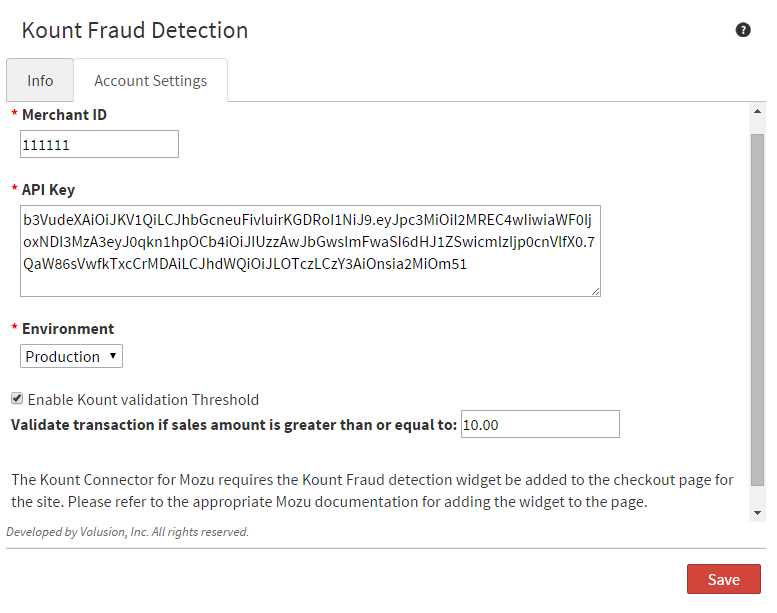
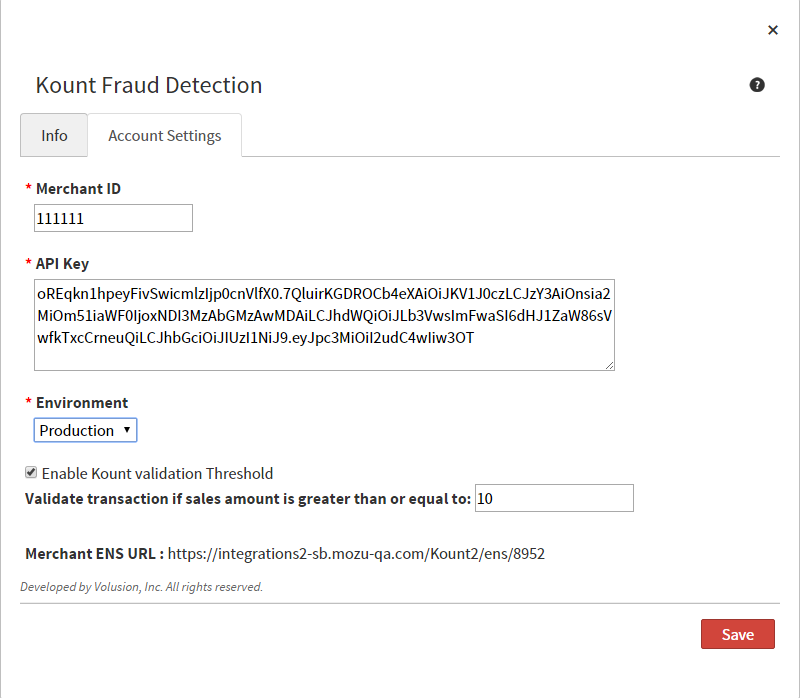
Updates for 2.0

diff --git a/Preview/Kount/Mozu_Kount_App.htm b/Preview/Kount/Mozu_Kount_App.htm
@@ -1,7 +1,7 @@
 <html>
     <head><title>Kount by Mozu</title>
         <meta name="author" content="Mozu" />
-        <meta name="description" content="User content for Kount by Mozu" />
+        <meta name="description" content="User content for the Kount Application by Mozu" />
         <meta name="keywords" content="Kount,Mozu" />
 		<link rel="shortcut icon" href="http://www.mozu.com/favicon.ico" />
 		
@@ -103,8 +103,8 @@
                         </button> <a href="#"><img src="logo-m-red-medium.png" style="margin-top:3px;"/></a></div>
                     <div class="navbar-collapse collapse">
                         <ul class="nav navbar-nav navbar-right">
-						<li><a href="versionhistory.html"><span>Version History</span></a></li>
-							<li><a href="//developer.mozu.com/learn/mozu-concepts"><span>Mozu Concepts</span></a></li>
+							<li><a href="versionhistory.html"><span>Version History</span></a></li>
+							<li><a href="http://developer.mozu.com/content/learn/Introduction.htm"><span>Mozu Dev Center</span></a></li>
                         </ul>
                     </div>
                 </div>
@@ -120,13 +120,13 @@
 					<ul class="nav nav-stacked" >
 						<div class="side-heading">Table of Contents</div>
 							<li><a href="#intro">Welcome to Kount and Mozu</a></li>
-							<li><a href="#install">Install the App</a>
-							</li>
-							<li><a href="#configapp">Configure the App</a>
-								
-							</li>
+							<li><a href="#install">Install the App</a></li>
+							<li><a href="#configapp">Configure the App</a></li>
+							<li><a href="#mergetheme">Add the Widget</a></li>
 							<li><a href="#enable">Enable the App</a></li>
 							<li><a href="#use">Use the App</a></li>
+							<li><a href="#applogic">App Logic</a></li>
+							<li><a href="#related">Related Links</a></li>
 					</ul>
 				</nav>
 			</div>
@@ -137,7 +137,7 @@
 					<h2>Welcome to Kount and Mozu</h2>
 					<p><a href="http://www.kount.com" target="_blank">Kount</a> provides online services to determine the legitimacy and potential risk of shopper orders submitted through your storefront, specifically at the order level. The service reviews every submitted order for pertinent data including the shopper’s identity, the initial order submitted, the IP and origin location, and the device and browser to calculate a fraud score. Kount compares and assesses the risk of the order’s data and score per the rules you configure to identify legitimate and potentially fraudulent orders. </p>
 					<p><a href="http://www.mozu.com" target="_blank">Mozu</a> offers an app to leverage Kount’s rules and fraud detection to review your shoppers’ orders submitted through your storefront. All orders are determined as accepted, rejected, and failed according to the rules you configure and Kount’s services. </p>
-					<p>Application Features:</p>
+					<h3>Application Features:</h3>
 					<ul>
                             <li>Automatically sends information about submitted orders to Kount, including the shopper's browser type, IP address, device type, billing information, etc.</li>
 							<li>Validates shopper purchases against your Kount rules to determine fraud scores and legitimacy of the purchaser. </li>
@@ -145,24 +145,18 @@
 							<li>Provide orders to review and manage through Mozu with Kount’s final determination.</li>
 							<li>Avoids excessive overhead for low-value orders by allowing you to set a monetary threshold below which orders are NOT screened for fraud.</li>
                         </ul>
-						<p>When a shopper purchases their order, the following occurs between Mozu and the Kount app:</p>
-						<ul>
-							<li>Mozu sends collected data to Kount including the browser used, desktop or device used to enter the order, order origin address, the IP of the purchasing system, and additional data as needed. </li>
-							<li>Kount verifies the legitimacy of the order against set rules on your Kount account. Kount determines the IP location, validity of the payment method, customer data, browser data, and further items.</li>
-							<li>Kount calculates a fraud score for the order and returns the order's status as accepted, failed, or rejected. If rejected, the order data did not clearly calculate as accepted or failed. You can review and actively accept or reject these orders through Mozu.</li>
-							<li>Mozu notifies you when purchases have returned as failed or rejected. These orders do require your review and final actions to accept the payment or cancel the order due to potential fraudulent activity through the Orders section.</li>
-						</ul>
+
 				</section>
 				<section id="install">
-					<h2 >Install the Kount Application by Mozu on Your Tenant</h2>
+					<h2>Install the Kount Application by Mozu on Your Tenant</h2>
                         <p>After purchasing the Kount Application by Mozu, call your sales or professional services representative and request installation on your tenant. Mozu staff will install the app to your tenant, making it available for further configuration and usage in your storefront.</p>
 				</section>
 				
 				<section id="configapp">				
-                    <h2 >Configure the Application</h2>
+                    <h2>Configure the Application</h2>
 						<p>To integrate your Kount services with Mozu, review the configuration requirements to ensure you have everything you need to be successful before you begin, and then complete the steps in this section.</p>
-						<div id="configreq">  					   
-					<h3 >Configuration Requirements</h3></div>
+				   
+					<h3 id="configreq">Configuration Requirements</h3>
                         <ul>
                             <li>An active <a href="http://www.kount.com/" target="_blank">Kount</a> account.</li>
 							<li>Your Kount <strong>Merchant ID</strong>. Kount provides this ID when you set up your Kount account.</li>
@@ -170,28 +164,47 @@
 							<li>You must have access to modify and update your Mozu theme.</li>
 							<li>The Kount Application by Mozu must be installed on your tenant.</li>
                         </ul>
-						<div id="configacct">
-						<h3 >Configure Kount Account Settings</h3></div>
+
+						<h3 id="configacct">Configure Kount Account Settings</h3>
                         <ol>
                             <li>On the Mozu Admin top bar, select <strong>Settings</strong> &gt; <strong>Applications</strong>.</li>
                             <li>Click <strong>Kount</strong>.</li>
                             <li>Click the <strong>Configuration</strong> link to open configuration settings.</li>
                             <li>Go to the <strong>Account Settings</strong> tab:<br><img src="kount-acctsettings.png" class="img-mozu"/></li>
 							<li>Enter your Kount <strong>Merchant ID</strong>. Kount provides this ID when you set up your Kount account.</li>
-							<li>Enter your Kount <strong>API Key</strong>. To find or generate this key in Kount, navigate to <strong>Admin</strong> > <strong>API Keys</strong>: <img src="kount-admin-apikeys.png" class="img-mozu"> The key you use must have both <strong>RIS</strong> and <strong>API</strong> permissions. You can configure key permissions when you create the key: <img src="kount-create-apikey.png" class="img-mozu"></li> 
+							<li>Enter your Kount <strong>API Key</strong>. To find or generate this key in Kount, navigate to <strong>Admin</strong> &gt; <strong>API Keys</strong>: <img src="kount-admin-apikeys.png" class="img-mozu"> The key you use must have both <strong>RIS</strong> and <strong>API</strong> permissions. You can configure key permissions when you create the key: <img src="kount-create-apikey.png" class="img-mozu"></li> 
 							<li>Select the Kount <strong>Environment</strong> you want to work in.</li>
 							<li>(Optional) Selct <strong>Enable Kount validation Threshold</strong> to set a price threshold below which orders are not screened by Kount. For example, you may want Kount to only screen orders over $10 for fraud.</li>
 							<li>Click <strong>Save</strong>. This step connects Mozu to your Kount account.</li>
-							<li>Copy the URL provided on the Account Settings tab, for example: <i>https://sample.site.mozu.com/KountExt</i>. This URL directs the Kount widget to send order data to the Kount Web Console (where data collection occurs). Save this link for the next step of configuration.</li>
-							
+													
                         </ol>
-                        
-						
-						                        
+                    
+				</section>
+
+				<section id="mergetheme">
+					<h2>Add the Kount Widget to Your Theme</h2>
+					<p>The Kount Application includes a theme widget that is available in GitHub (<a href="https://github.com/Mozu/Integration-KountWidget">Mozu/Integration-KountWidget</a>). You can add this widget to the checkout page of your Mozu site(s) to capture customers’ browser information for inclusion in Kount’s fraud screening.</p>
+					<h3 id="updatetheme">Update Your Theme</h3>
+					<ol>
+						<li>Clone or download this repository.</li>
+						<li>Add or merge the files listed above.</li>
+						<li>Run Grunt to build the theme.</li>
+						<li>Upload the resulting ZIP file to Mozu Dev Center.</li>
+						<li>Install the updated theme to the sandbox you’re working in.</li>
+						<li>In Mozu Admin, go to <strong>SiteBuilder</strong> &gt; <strong>Themes</strong>, right-click the new theme, and click <strong>Apply</strong>.</li>
+					</ol>
+					
+					<h3 id="addwidget">Add the Widget to Your Checkout Page</h3>
+					<ol>
+						<li>In Mozu Admin, go to <strong>SiteBuilder</strong> &gt; <strong>Editor</strong>.</li>
+						<li>In the Site tree, navigate to <strong>Templates</strong> &gt; <strong>Checkout</strong>.</li>
+						<li>Click the <strong>Widgets</strong> button at the top of the editor.</li>
+						<li>Drag the <strong>Kount Fraud Detection</strong> widget to any dropzone on the checkout page. The widget is not visible to customers, so placement on the page is not important.</li>
+					</ol>
 				</section>
 				
 				<section id="enable">
-                    <h2 >Enable the Kount Application by Mozu</h2>
+                    <h2>Enable the Kount Application by Mozu</h2>
 					<p>After configuration, enable the Kount Application in Mozu to apply its functionality to your tenant:</p>
                         <ol>
                             <li>On the Mozu Admin top bar, select <strong>Settings</strong> &gt; <strong>Applications</strong>.</li>
@@ -202,23 +215,48 @@
 				<section id="use">
 				<h2>Use the App</h2>
 				<ul>
-				<li><a href="#notify">Enable Event Notification System</a></li>
+				<li><a href="#notify">Enable the Kount Event Notification System</a></li>
 				</ul>
-                    <h2 id="notify">Enable Event Notification System </h2>
-					<p>With the systems connected, you need to enable the Event Notification System (ENS) in your Kount account to synchronize data and enable actions with Mozu. On shopper purchases, Mozu processes the order and sends data to Kount, which calculates the fraud score and provides data back to Mozu.</p>
-					<p>While we highly recommend performing all order review and reporting directly through Mozu, you can use Kount services and sync any actions back into Mozu. Kount provides fraud score reviewing, management, and in-depth reports for purchases made through Mozu storefronts. You can review and approve the order within Kount, add history content, and update addresses. ENS syncs this data back into Mozu within a minute of entered changes.</p>
-					<p>Specific data changed within Kount syncs to Mozu including edits to the content, history, shipping and billing addresses, and state changes such as from review (R) to approve (A). If you change the state of an order in Kount, additional processes enact in Mozu when synced as if you had made that change directly in Mozu. </p>
+    <h3 id="notify">(Optional) Enable the Kount Event Notification System</h3>
+					<p>Kount provides their Event Notification System (ENS) to allow merchants to automate certain interactions with Kount. The Kount Application leverages this system to get information about status changes in Kount.</p> 
+					<p class="panel-note"><strong>Note:</strong> If you simply want to send orders to Kount and receive fraud detection results, you do not need to complete this section. However, if you want to use other Kount services and have your Mozu orders automatically update to reflect changes applied in Kount, you must enable ENS.</p> 
+					<p>For example, you can review and approve an order within Kount, add history content, and update addresses. ENS syncs this data back into Mozu within a minute of entered changes. ENS can sync the following changes back to Mozu from Kount: Edits to order content, history, shipping and billing addresses, and state changes such as from review (R) to approve (A).</p>
                         <ol>
-                            <li>In your Kount account site, select Fraud Control tab and select <strong>Websites</strong>.</br>
+                        	<li>Open the Kount Application configuration settings dialog, go to the <strong>Account Settings</strong> tab and copy your <strong>Merchant ENS URL</strong>.</li>
+                            <li>Log in to your Kount account.</li>
+                            <li>In your Kount dashboard, go to <strong>Fraud Control</strong> &gt; <strong>Websites</strong>.</br>
 							<img src="kount-admin1.png" class="img-mozu"/></li>
-                            <li>You will have a “DEFAULT” website available in the list. You can edit this website using the gear icon. Select <strong>Edit</strong>. </br>
-							<img src="kount-admin2.png" class="img-mozu"/></li></li>
-                            <li>Select Website Enabled and ENS Enabled as <strong>Yes</strong>.</li>
-							<li>For the Merchant ENS URL, enter <font face="Courier New">https://integrations2-{su}.mozu.com/Kount2/ens/{tenantId}</font>, where <font face="Courier New">{su}</font> is the scale unit (sb, tp1, tp2, tp3, tp4, etc.). A Mozu support representative can help you identify the scale unit and the correct URL to use for your sandbox and production needs. An example of a Merchant ENS URL is <font face="Courier New">https://integrations2-tp1.mozu.com/Kount2/ens/12345</font>.</li>
+                            <li>You will have a “DEFAULT” website available in the list. Click the gear icon and select <strong>Edit</strong> to edit the site settings.
+							</li>
+                            <li>Set <strong>Website Enabled</strong> and <strong>ENS Enabled</strong> to <strong>Yes</strong>.<img src="kount-website-editor.png" class="img-mozu"/></li>
+							<li>For the <strong>Merchant ENS URL</strong>, paste the URL you copied from the Kount Application.</li>
 							<li>Click <strong>Update Website</strong>.</li>
-                        </ol>
+                        </ol>	
 				</section>
-				
+				<section id="applogic">
+					<h2>Application Logic</h2>
+					<p>When a shopper purchases their order, the following occurs between Mozu and the Kount app:</p>
+						<ul>
+							<li>Mozu sends collected data to Kount including the browser used, desktop or device used to enter the order, order origin address, the IP of the purchasing system, and additional data as needed. </li>
+							<li>Kount verifies the legitimacy of the order against set rules on your Kount account. Kount determines the IP location, validity of the payment method, customer data, browser data, and further items.</li>
+							<li>Kount calculates a fraud score for the order and returns the order's status as accepted, failed, or rejected. If rejected, the order data did not clearly calculate as accepted or failed. You can review and actively accept or reject these orders through Mozu.</li>
+							<li>Mozu notifies you when purchases have returned as failed or rejected. These orders do require your review and final actions to accept the payment or cancel the order due to potential fraudulent activity through the Orders section.</li>
+						</ul>
+				</section>
+
+				<section id="related">
+					<h2>Related Links</h2>
+
+					<h3>GitHub</h3>
+					<ul>
+						<li><a href="https://github.com/Mozu/Integration-KountWidget">Mozu/Integration-KountWidget</a></li>
+					</ul>
+
+					<h3>Mozu Documentation</h3>
+					<ul>
+						<li><a href="http://developer.mozu.com/content/learn/themedev/quickstart/create-your-first-theme.htm">Mozu Theme Development Quickstart</a></li>
+					</ul>
+				</section>
 						</div>
                     </div>
                 </div>

diff --git a/Preview/Kount/versionhistory.html b/Preview/Kount/versionhistory.html
@@ -2,7 +2,7 @@
 <html>
     <head><title>Version History</title>
         <meta name="author" content="Mozu" />
-        <meta name="description" content="App version history for Mozu app." />
+        <meta name="description" content="App version history for the Kount Application by Mozu." />
         <meta name="keywords" content="Mozu,App" />
 		<link rel="shortcut icon" href="http://www.mozu.com/favicon.ico" />
 		
@@ -103,8 +103,8 @@
                         </button> <a href="#"><img src="logo-m-red-medium.png" style="margin-top:3px;"/></a></div>
                     <div class="navbar-collapse collapse">
                         <ul class="nav navbar-nav navbar-right">
-						<li><a href="Mozu_Kount_App.htm"><span>App Documentation</span></a></li>
-							<li><a href="//developer.mozu.com/learn/mozu-concepts"><span>Mozu Concepts</span></a></li>
+							<li><a href="Mozu_Kount_App.htm"><span>App Documentation</span></a></li>
+							<li><a href="http://developer.mozu.com/content/learn/Introduction.htm"><span>Mozu Dev Center</span></a></li>
                         </ul>
                     </div>
                 </div>
@@ -119,6 +119,7 @@
 				<nav class="bs-docs-sidebar" >
 					<ul class="nav nav-stacked" >
 						<div class="side-heading">Table of Contents</div>
+							<li><a href="#Nov2015">November 2015</a></li>
 							<li><a href="#Jun2015">June 2015</a></li>
 							<li><a href="#Jan2015">January 2015</a></li>
 					</ul>
@@ -127,6 +128,15 @@
                     
             <div class="col-md-9 content" >
                 <!-- Documentation content -->
+                <section id="Nov2015">
+                	<h2>November, 2015</h2>
+                	<p>Thanks for using the Kount Application by Mozu! Here's what's new in this version:</p>
+					<ul>
+						<li>Added the ability to switch between <strong>Production</strong> and <strong>Test</strong> environments in Kount.</li>
+						<li>The <strong>Merchant ENS URL</strong> now appears on the <strong>Account Settings</strong> page of the app configuration settings dialog.</li>
+					</ul>
+                </section>
+
 				<section id="Jun2015">
 					<h2>June, 2015</font></h2>
 					<p>Thanks for using the Kount Application by Mozu! Here's what's new in this version:</p>

diff --git a/Preview/Kount/mozu-bootswatch.css b/Preview/Kount/mozu-bootswatch.css
@@ -605,16 +605,29 @@ ol {
 	margin-bottom: 10px;
 }
 
+li p.note {
+	margin-bottom: 0;
+	line-height: 1.42857143;
+}
+
 ul {
 	list-style-type: square;
+}
+
 }
 ul ul,
 ol ul,
 ul ol,
 ol ol {
 	margin-bottom: 0;
-	list-style-type: square;
+	padding: 0;
 }
+
+ol ol {	
+	list-style-type: lower-alpha;
+	margin-bottom: 0;
+}
+
 .list-unstyled {
 	padding-left: 0;
 	list-style: none;
@@ -628,6 +641,7 @@ ol ol {
 	display: inline-block;
 	padding-left: 5px;
 	padding-right: 5px;
+
 }
 dl {
 	margin-top: 0;
@@ -4409,6 +4423,32 @@ a.list-group-item-danger.active:focus {
 	border-bottom-right-radius: 0px;
 	border-bottom-left-radius: 0px;
 }
+.panel-note {
+    padding: 10px 15px;
+    color: #3a87ad;
+	background-color: #d9edf7;
+	border-color: #bce8f1;
+    margin: 20px 0px 20px 0px;
+    display: block;
+}
+
+.panel-tip {
+    padding: 10px 15px;
+    color: #468847;
+	background-color: #dff0d8;
+	border-color: #d6e9c6;
+    margin: 20px 0px 20px 0px;
+    display: block;
+}
+
+.panel-warning {
+    padding: 10px 15px;
+    color: #c09853;
+	background-color: #fcf8e3;
+	border-color: #fbeed5;
+    margin: 20px 0px 20px 0px;
+    display: block;
+}
 .panel > .list-group {
 	margin-bottom: 0;
 }
@@ -5673,6 +5713,10 @@ p {
 	line-height: 1.8em;
 	margin-bottom: 15px;
 }
+.note {
+	padding-left: 20px;
+
+}
 p.lead {
 	font-size: 24px;
 	color: #999;
@@ -5710,6 +5754,23 @@ a:hover, a:focus {
 	max-width: 75%;
 	height: auto;
 	border:1px solid #383b3c;
+}
+
+.img-mozu-center {	
+	display: block;
+	width: 75% \9;
+	max-width: 75%;
+	height: auto;
+	border:1px solid #383b3c;
+	margin-left: auto;
+	margin-right: auto;
+}
+
+figure figcaption {
+    text-align: center;
+    max-width: 100%;
+    font-style: italic;
+    margin-bottom: 10px;
 }
 
 /* Landing page Styles */
